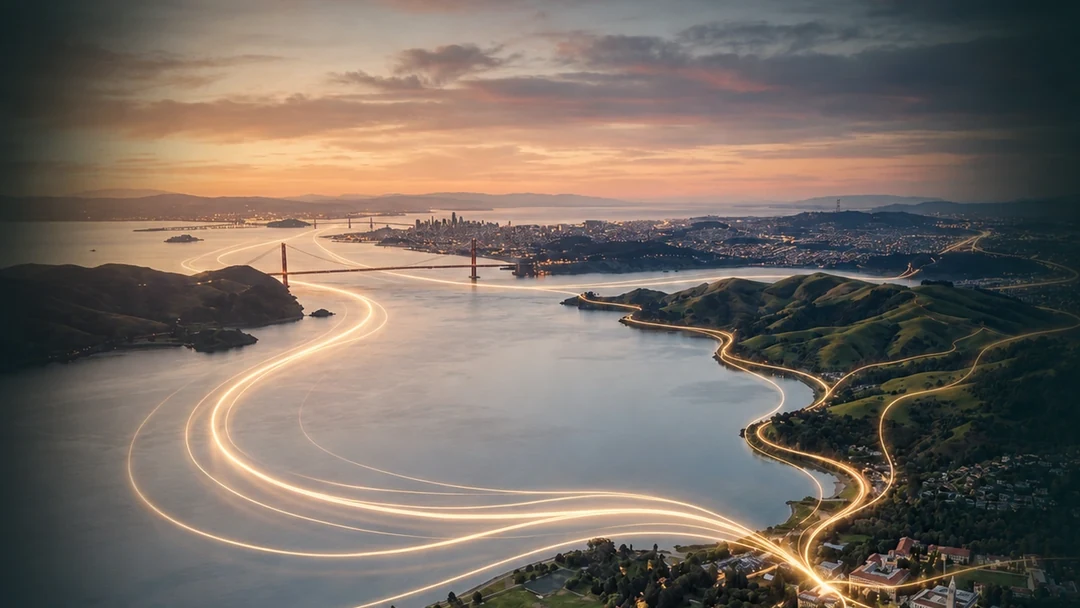
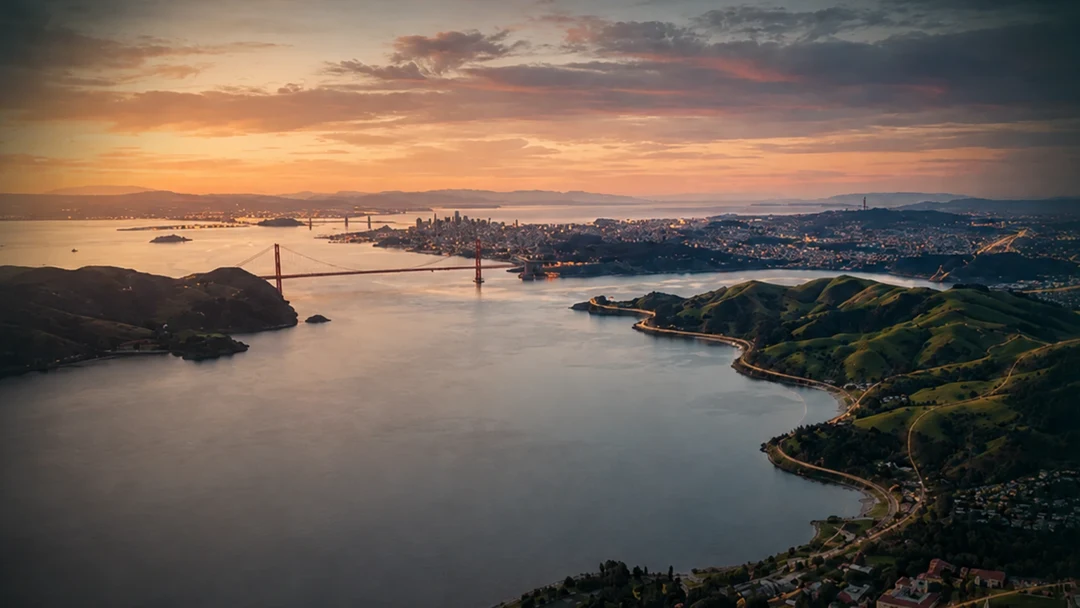
yes

diff --git a/public/portfolio.html b/public/portfolio.html
@@ -199,7 +199,7 @@ html.lenis {
 </div>
 <div aria-label="3D Bay Area flyover preview" class="ptb-flyover-frame">
 <img alt="Aerial view of the San Francisco Bay and surrounding region." loading="lazy" src="images/Image_4.webp" srcset="images/Image_4-p-800.webp 800w, images/Image_4-p-1080.webp 1080w, images/Image_4-p-1600.webp 1600w, images/Image_4.webp 1920w"/>
-<div class="ptb-flyover-overlay"><span class="text-xs">3D BAY AREA FLYOVER</span><div class="text-h5 cc-u-text-surface">Berkeley first. Baywide next.</div><div class="ptb-map-line"><span class="is-active">Berkeley</span><span>San Francisco</span><span>Peninsula</span><span>San Jose</span><span>Tri-Valley</span></div></div>
+<div class="ptb-flyover-overlay"><div class="text-h5 cc-u-text-surface">Berkeley first. Baywide next.</div><div class="ptb-map-line"><span class="is-active">Berkeley</span><span>San Francisco</span><span>Peninsula</span><span>San Jose</span><span>Tri-Valley</span></div></div>
 </div>
 </div>
 </div>

diff --git a/public/css/ptb-enhancements.css b/public/css/ptb-enhancements.css
@@ -1020,3 +1020,32 @@
     display: none !important;
   }
 }
+
+/* Portfolio flyover cleanup */
+.ptb-flyover-frame {
+  min-height: 0;
+  border-radius: 0;
+  overflow: visible;
+}
+
+.ptb-flyover-frame > img {
+  height: auto;
+  aspect-ratio: 16 / 9;
+  border-radius: var(--roundness--xlarge);
+}
+
+.ptb-flyover-frame::after {
+  display: none;
+}
+
+.ptb-flyover-overlay {
+  position: static;
+  inset: auto;
+  margin-top: 1.5rem;
+}
+
+@media screen and (max-width: 767px) {
+  .ptb-flyover-overlay {
+    margin-top: 1.25rem;
+  }
+}
